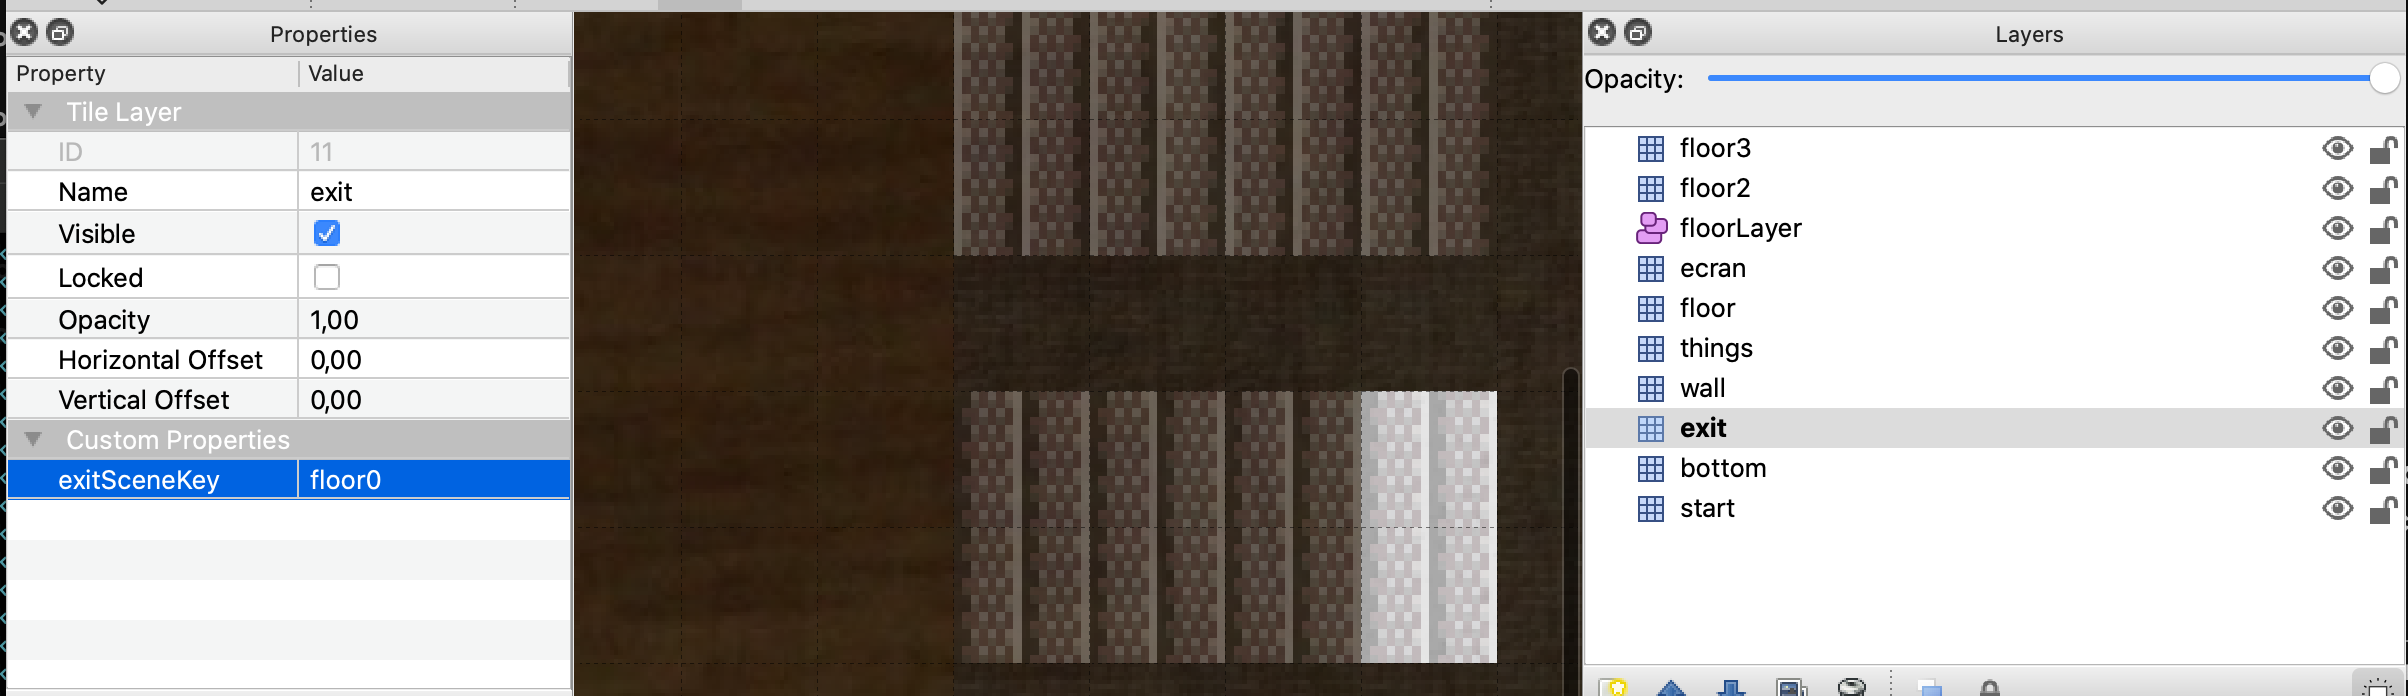
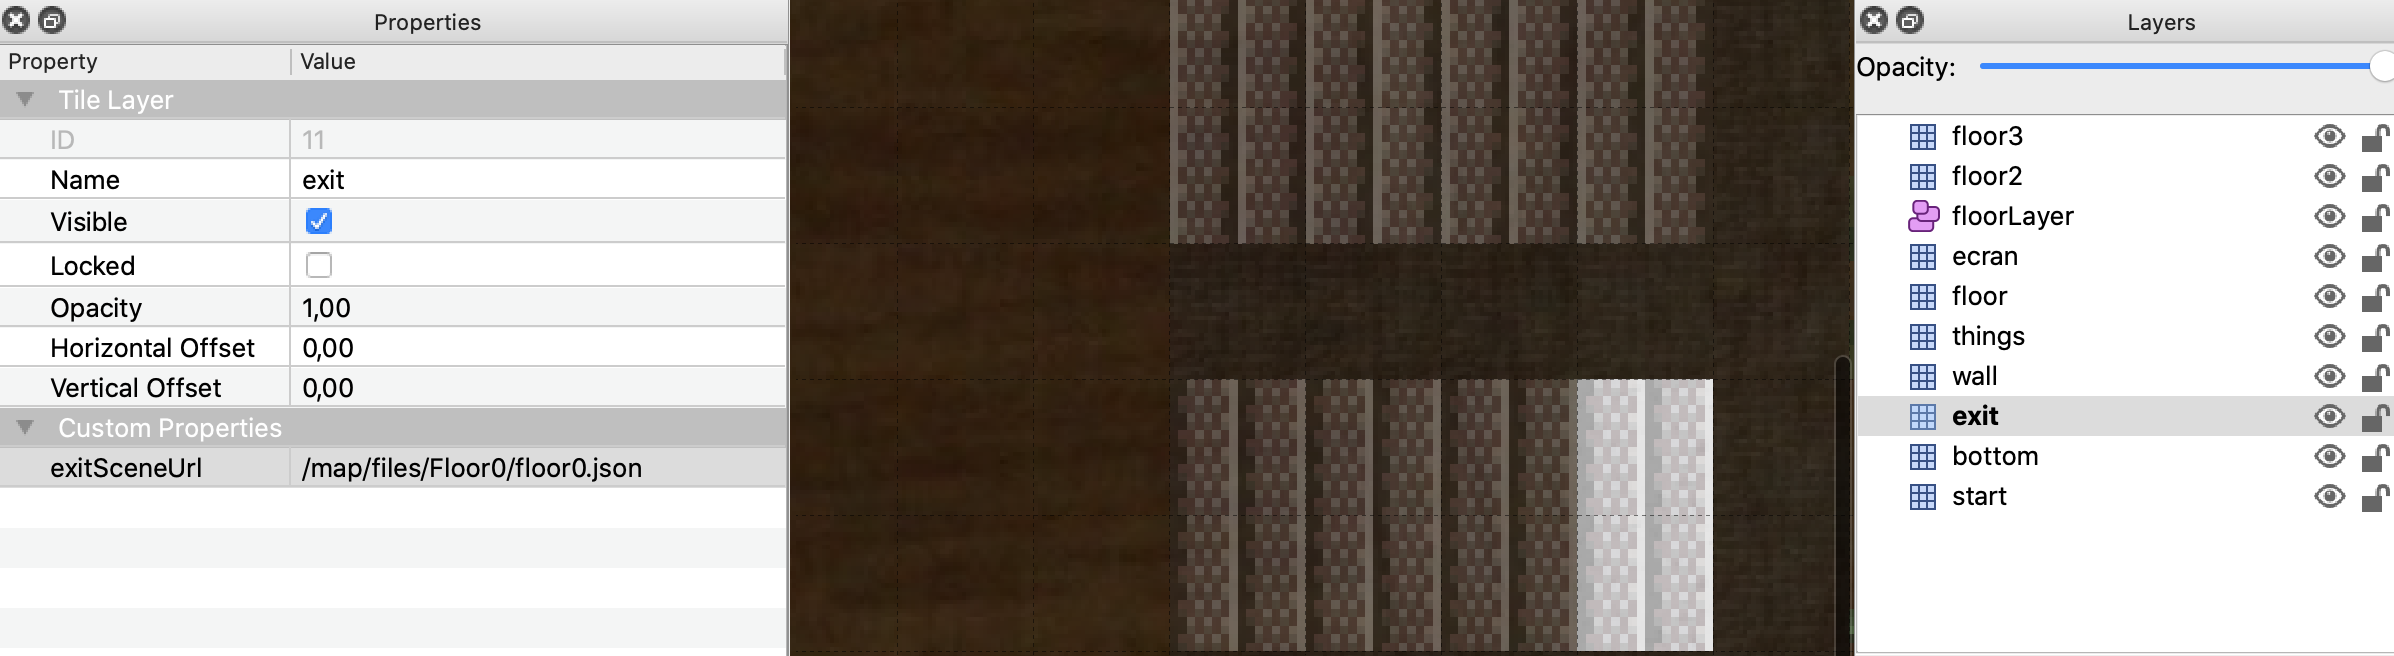
Fix feedback @moufmouf strategy of maps managing by back.

diff --git a/front/src/Phaser/Game/GameScene.ts b/front/src/Phaser/Game/GameScene.ts
@@ -12,6 +12,7 @@ import Texture = Phaser.Textures.Texture;
 import Sprite = Phaser.GameObjects.Sprite;
 import CanvasTexture = Phaser.Textures.CanvasTexture;
 import CreateSceneFromObjectConfig = Phaser.Types.Scenes.CreateSceneFromObjectConfig;
+import {getMapKeyByUrl} from "../Login/LogincScene";
 
 export enum Textures {
     Player = "male1"
@@ -64,17 +65,18 @@ export class GameScene extends Phaser.Scene implements GameSceneInterface, Creat
             // Triggered when the map is loaded
             // Load tiles attached to the map recursively
             this.map = data.data;
+            let url = this.MapUrlFile.substr(0, this.MapUrlFile.indexOf(`${this.MapKey}.json`));
             this.map.tilesets.forEach((tileset) => {
                 if (typeof tileset.name === 'undefined' || typeof tileset.image === 'undefined') {
                     console.warn("Don't know how to handle tileset ", tileset)
                     return;
                 }
                 //TODO strategy to add access token
-                this.load.image(tileset.name, `${this.MapUrlFile}/${tileset.image}`);
+                this.load.image(tileset.name, `${url}/${tileset.image}`);
             })
         });
         //TODO strategy to add access token
-        this.load.tilemapTiledJSON(this.MapKey, `${this.MapUrlFile}/${this.MapKey}.json`);
+        this.load.tilemapTiledJSON(this.MapKey, this.MapUrlFile);
 
         //add player png
         PLAYER_RESOURCES.forEach((playerResource: any) => {
@@ -164,16 +166,17 @@ export class GameScene extends Phaser.Scene implements GameSceneInterface, Creat
      */
     private loadNextGame(layer: ITiledMapLayer, mapWidth: number, tileWidth: number, tileHeight: number){
         let properties : any = layer.properties;
-        let nextSceneKey = properties.find((property:any) => property.name === "exitSceneKey");
-        let nextMap : MapObject = gameManager.Maps.find((map: MapObject) => map.key === nextSceneKey.value);
+        let exitSceneUrl = properties.find((property:any) => property.name === "exitSceneUrl");
 
-        let gameIndex = this.scene.getIndex(nextMap.key);
+        let exitSceneKey = getMapKeyByUrl(exitSceneUrl.value);
+
+        let gameIndex = this.scene.getIndex(exitSceneKey);
         let game : Phaser.Scene = null;
         if(gameIndex === -1){
-            game = new GameScene(nextMap.key, `${API_URL}${nextMap.url}`);
-            this.scene.add(nextSceneKey, game, false);
+            game = new GameScene(exitSceneKey, `${API_URL}${exitSceneUrl.value}`);
+            this.scene.add(exitSceneKey, game, false);
         }else{
-            game = this.scene.get(nextMap.key);
+            game = this.scene.get(exitSceneKey);
         }
         if(!game){
             return;
@@ -192,7 +195,7 @@ export class GameScene extends Phaser.Scene implements GameSceneInterface, Creat
                 yStart: (y * tileWidth),
                 xEnd: ((x +1) * tileHeight),
                 yEnd: ((y + 1) * tileHeight),
-                key: nextMap.key
+                key: exitSceneKey
             })
         });
     }

diff --git a/front/src/Phaser/Login/LogincScene.ts b/front/src/Phaser/Login/LogincScene.ts
@@ -10,6 +10,11 @@ import {cypressAsserter} from "../../Cypress/CypressAsserter";
 import {GroupCreatedUpdatedMessageInterface, MessageUserPositionInterface} from "../../Connexion";
 import {API_URL} from "../../Enum/EnvironmentVariable";
 
+export function getMapKeyByUrl(mapUrlStart: string){
+    let tab = mapUrlStart.split("/");
+    return tab[tab.length -1].substr(0, tab[tab.length -1].indexOf(".json"));
+}
+
 //todo: put this constants in a dedicated file
 export const LoginSceneName = "LoginScene";
 enum LoginTextures {
@@ -98,9 +103,10 @@ export class LogincScene extends Phaser.Scene implements GameSceneInterface {
                 if (!scene) {
                     return;
                 }
-                let game = new GameScene(scene.mapStart.key, `${API_URL}${scene.mapStart.url}`);
-                this.scene.add(scene.mapStart.key, game, false);
-                this.scene.start(scene.mapStart.key);
+                let key = getMapKeyByUrl(scene.mapUrlStart);
+                let game = new GameScene(key,`${API_URL}${scene.mapUrlStart}`);
+                this.scene.add(key, game, false);
+                this.scene.start(key);
                 return scene;
             }).catch((err) => {
                 console.error(err);

diff --git a/back/src/Controller/AuthenticateController.ts b/back/src/Controller/AuthenticateController.ts
@@ -1,7 +1,7 @@
 import {Application, Request, Response} from "express";
 import Jwt from "jsonwebtoken";
 import {BAD_REQUEST, OK} from "http-status-codes";
-import {SECRET_KEY, ROOM_STARTED, URL_ROOM_STARTED} from "../Enum/EnvironmentVariable"; //TODO fix import by "_Enum/..."
+import {SECRET_KEY, URL_ROOM_STARTED} from "../Enum/EnvironmentVariable"; //TODO fix import by "_Enum/..."
 import { uuid } from 'uuidv4';
 
 export class AuthenticateController{
@@ -26,7 +26,7 @@ export class AuthenticateController{
             let token = Jwt.sign({email: param.email, userId: userId}, SECRET_KEY, {expiresIn: '24h'});
             return res.status(OK).send({
                 token: token,
-                startedRoom: {key: ROOM_STARTED, url: URL_ROOM_STARTED},
+                mapUrlStart: URL_ROOM_STARTED,
                 userId: userId,
             });
         });

diff --git a/front/src/Phaser/Game/GameManager.ts b/front/src/Phaser/Game/GameManager.ts
@@ -5,6 +5,7 @@ import {
     ListMessageUserPositionInterface
 } from "../../Connexion";
 import {SimplePeerInterface, SimplePeer} from "../../WebRtc/SimplePeer";
+import {API_URL} from "../../Enum/EnvironmentVariable";
 
 export enum StatusGameManagerEnum {
     IN_PROGRESS = 1,
@@ -30,7 +31,6 @@ export class GameManager {
     private playerName: string;
     SimplePeer : SimplePeerInterface;
     private characterUserSelected: string;
-    Maps: Array<MapObject>;
 
     constructor() {
         this.status = StatusGameManagerEnum.IN_PROGRESS;
@@ -50,7 +50,6 @@ export class GameManager {
 
     loadMaps(){
         return this.ConnexionInstance.loadMaps().then((data) => {
-            this.Maps = data.maps;
             return data;
         }).catch((err) => {
             throw err;

diff --git a/front/src/Connexion.ts b/front/src/Connexion.ts
@@ -3,6 +3,7 @@ import {GameManager} from "./Phaser/Game/GameManager";
 const SocketIo = require('socket.io-client');
 import Axios from "axios";
 import {API_URL} from "./Enum/EnvironmentVariable";
+import {getMapKeyByUrl} from "./Phaser/Login/LogincScene";
 
 enum EventMessage{
     WEBRTC_SIGNAL = "webrtc-signal",
@@ -182,7 +183,8 @@ export class Connexion implements ConnexionInterface {
         return Axios.post(`${API_URL}/login`, {email: this.email})
             .then((res) => {
                 this.token = res.data.token;
-                this.startedRoom = res.data.startedRoom.key;
+
+                this.startedRoom = getMapKeyByUrl(res.data.mapUrlStart);
                 this.userId = res.data.userId;
 
                 this.socket = SocketIo(`${API_URL}`, {

diff --git a/back/src/Controller/MapController.ts b/back/src/Controller/MapController.ts
@@ -1,7 +1,7 @@
 import express from "express";
 import {Application, Request, Response} from "express";
 import {OK} from "http-status-codes";
-import {ROOM_STARTED, ROOMS, URL_ROOM_STARTED} from "../Enum/EnvironmentVariable";
+import {URL_ROOM_STARTED} from "../Enum/EnvironmentVariable";
 
 export class MapController {
     App: Application;
@@ -20,8 +20,7 @@ export class MapController {
     getMaps() {
         this.App.get("/maps", (req: Request, res: Response) => {
             return res.status(OK).send({
-                mapStart: {key: ROOM_STARTED, url: URL_ROOM_STARTED},
-                maps: ROOMS
+                mapUrlStart: URL_ROOM_STARTED
             });
         });
     }

diff --git a/back/src/Enum/EnvironmentVariable.ts b/back/src/Enum/EnvironmentVariable.ts
@@ -1,18 +1,11 @@
 const SECRET_KEY = process.env.SECRET_KEY || "THECODINGMACHINE_SECRET_KEY";
-const ROOM_STARTED = "floor0";
-const URL_ROOM_STARTED = "/map/files/Floor0";
-const ROOMS = [
-    {key: "floor0", url: "/map/files/Floor0"},
-    {key: "floor1", url: "/map/files/Floor1"},
-]
+const URL_ROOM_STARTED = "/map/files/Floor0/floor0.json";
 const MINIMUM_DISTANCE = process.env.MINIMUM_DISTANCE ? Number(process.env.MINIMUM_DISTANCE) : 64;
 const GROUP_RADIUS = process.env.GROUP_RADIUS ? Number(process.env.GROUP_RADIUS) : 48;
 
 export {
     SECRET_KEY,
-    ROOM_STARTED,
     URL_ROOM_STARTED,
-    ROOMS,
     MINIMUM_DISTANCE,
     GROUP_RADIUS
 }

diff --git a/README.md b/README.md
@@ -47,7 +47,7 @@ A few things to notice:
 
 If you have exit scene
 - You must create layer "exit". The layer have cases where the gamer can switch to the next scene.
-- In layer properties, you must add "exitSceneKey" property. It represent a key map of the next scene. Be careful, if you want that the next map will be correctly loaded, you must check that the map exists in the list of the maps application. The variable that represents maps in the application is "ROOMS" constant variable.
+- In layer properties, you must add "exitSceneUrl" property. It represents a url map of the next scene. Be careful, if you want that the next map will be correctly loaded, you must check that the map files are in folder  `back/src/Assets/Maps/<your map folder>`. The files will be accessible by url `<HOST>/map/files/<your map folder>/...`.
 
 ![](doc/images/exit_layer_map.png)
 
